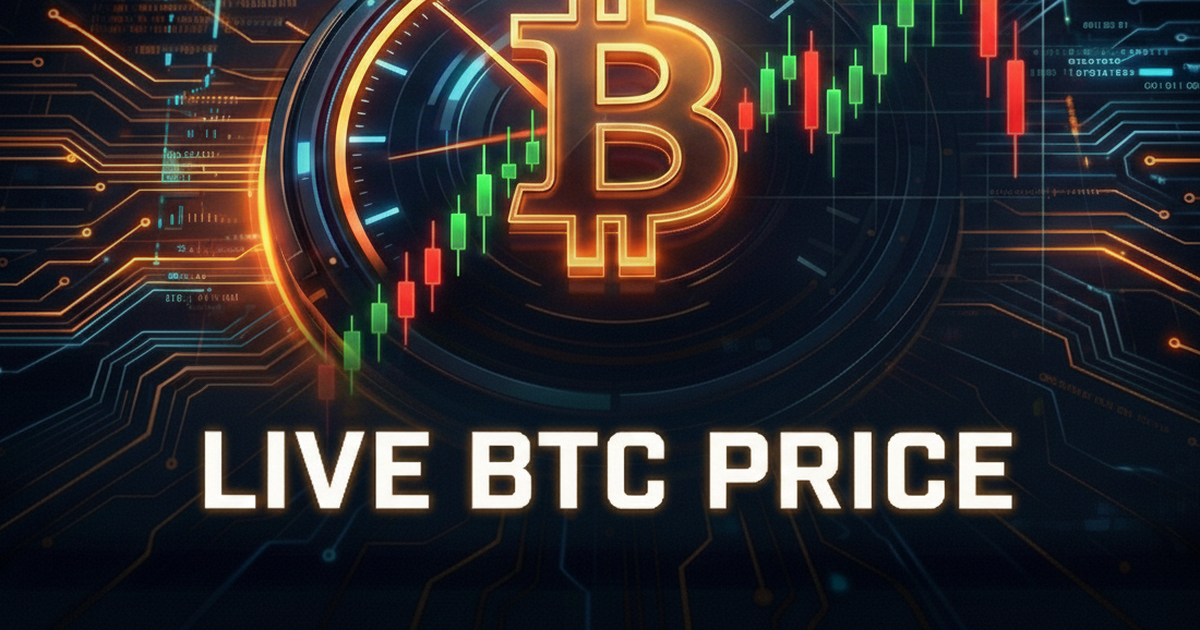
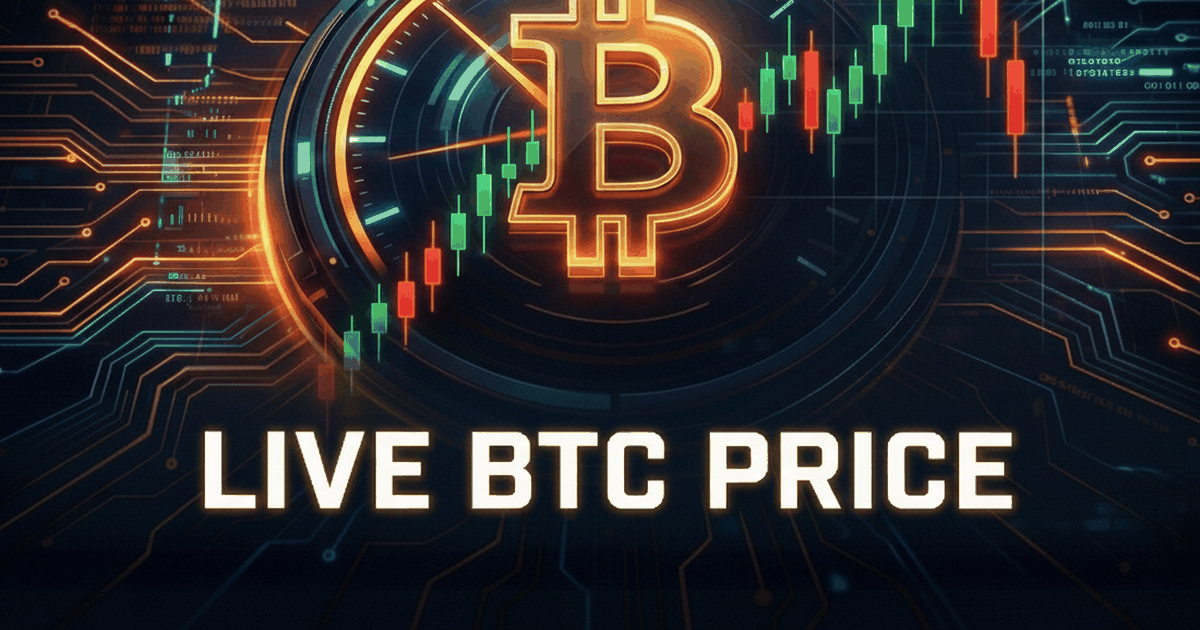
Site audit: main landmark, BTCPRIX breadcrumbs, lighter social image
Full pass over the live site. Crawled 19 pages, 30 link targets and 60
assets: no broken links, no missing assets, no console errors. 140
page-by-width combinations: zero horizontal overflow. Both interactive apps
verified working — Centre Circle Finder's search returns correct clubs, and
BTCPRIX's Binance feed ticks live.

Three real gaps found and fixed:

- No <main> landmark on any of the twelve generated pages, so screen readers
  had no way to skip to content. nav() now opens it and footer() closes it,
  which covers every page automatically. Footer still pins to the bottom on
  short pages and the content edges still align.
- BTCPRIX had no BreadcrumbList while every other page does; Google had no
  signal it sits under averyioApps. Added to its @graph.
- share-image2.png was 1013 KB. Palette-quantised to 411 KB with no visible
  change — it is a limited neon palette, so truecolour PNG was wasteful.

Known and deliberately left: the six frozen privacy pages link to
'index.html' rather than '/', creating a second URL for the homepage. The
canonical on /index.html already points at /, so Google consolidates it, and
those files must not be edited — Apple links them from live listings.

diff --git a/finance.html b/finance.html
@@ -71,6 +71,7 @@
       </div>
     </div>
   </nav>
+  <main>
   <div class="wrap crumb">
     <a href="/">Home</a>
     <span class="sep">/</span>
@@ -197,6 +198,7 @@
   <div class="wrap disclaimer">
     Nothing on this page is financial advice. averyio is not a financial adviser and none of this is a recommendation to buy or sell any investment. Markets carry risk and you can lose money — crypto especially. Past performance tells you nothing reliable about future returns. Only ever risk what you can afford to lose, and if you want advice, speak to someone qualified and regulated to give it.
   </div>
+  </main>
   <footer>
     <div class="wrap footer-inner">
       <div class="footer-cols">

diff --git a/btc-prix/index.html b/btc-prix/index.html
@@ -170,6 +170,15 @@
           "dateModified": "2026-08-09"
         },
         {
+          "@type": "BreadcrumbList",
+          "@id": "https://averyio.net/btc-prix/#breadcrumb",
+          "itemListElement": [
+            { "@type": "ListItem", "position": 1, "name": "Home", "item": "https://averyio.net/" },
+            { "@type": "ListItem", "position": 2, "name": "averyioApps", "item": "https://averyio.net/apps.html" },
+            { "@type": "ListItem", "position": 3, "name": "BTCPRIX", "item": "https://averyio.net/btc-prix/" }
+          ]
+        },
+        {
           "@type": "WebApplication",
           "@id": "https://averyio.net/btc-prix/#app",
           "name": "BTCPRIX",

diff --git a/apps.html b/apps.html
@@ -108,6 +108,7 @@
       </div>
     </div>
   </nav>
+  <main>
   <div class="wrap crumb">
     <a href="/">Home</a>
     <span class="sep">/</span>
@@ -261,6 +262,7 @@
       </div>
     </div>
   </section>
+  </main>
   <footer>
     <div class="wrap footer-inner">
       <div class="footer-cols">

diff --git a/apps/big-time-clock/index.html b/apps/big-time-clock/index.html
@@ -143,6 +143,7 @@
       </div>
     </div>
   </nav>
+  <main>
   <div class="wrap crumb">
     <a href="/">Home</a>
     <span class="sep">/</span>
@@ -313,6 +314,7 @@
       </div>
     </div>
   </section>
+  </main>
   <footer>
     <div class="wrap footer-inner">
       <div class="footer-cols">

diff --git a/apps/investfast/index.html b/apps/investfast/index.html
@@ -143,6 +143,7 @@
       </div>
     </div>
   </nav>
+  <main>
   <div class="wrap crumb">
     <a href="/">Home</a>
     <span class="sep">/</span>
@@ -313,6 +314,7 @@
       </div>
     </div>
   </section>
+  </main>
   <footer>
     <div class="wrap footer-inner">
       <div class="footer-cols">

diff --git a/apps/lume/index.html b/apps/lume/index.html
@@ -143,6 +143,7 @@
       </div>
     </div>
   </nav>
+  <main>
   <div class="wrap crumb">
     <a href="/">Home</a>
     <span class="sep">/</span>
@@ -313,6 +314,7 @@
       </div>
     </div>
   </section>
+  </main>
   <footer>
     <div class="wrap footer-inner">
       <div class="footer-cols">

diff --git a/apps/surge/index.html b/apps/surge/index.html
@@ -135,6 +135,7 @@
       </div>
     </div>
   </nav>
+  <main>
   <div class="wrap crumb">
     <a href="/">Home</a>
     <span class="sep">/</span>
@@ -301,6 +302,7 @@
       </div>
     </div>
   </section>
+  </main>
   <footer>
     <div class="wrap footer-inner">
       <div class="footer-cols">

diff --git a/apps/tap-dot-tap/index.html b/apps/tap-dot-tap/index.html
@@ -143,6 +143,7 @@
       </div>
     </div>
   </nav>
+  <main>
   <div class="wrap crumb">
     <a href="/">Home</a>
     <span class="sep">/</span>
@@ -313,6 +314,7 @@
       </div>
     </div>
   </section>
+  </main>
   <footer>
     <div class="wrap footer-inner">
       <div class="footer-cols">

diff --git a/contact.html b/contact.html
@@ -57,6 +57,7 @@
       </div>
     </div>
   </nav>
+  <main>
   <div class="wrap crumb">
     <a href="/">Home</a>
     <span class="sep">/</span>
@@ -114,6 +115,7 @@
       </div>
     </div>
   </section>
+  </main>
   <footer>
     <div class="wrap footer-inner">
       <div class="footer-cols">

diff --git a/privacy.html b/privacy.html
@@ -57,6 +57,7 @@
       </div>
     </div>
   </nav>
+  <main>
   <div class="wrap crumb">
     <a href="/">Home</a>
     <span class="sep">/</span>
@@ -119,6 +120,7 @@
       </div>
     </div>
   </section>
+  </main>
   <footer>
     <div class="wrap footer-inner">
       <div class="footer-cols">

diff --git a/index.html b/index.html
@@ -150,6 +150,7 @@
       </div>
     </div>
   </nav>
+  <main>
 
   <header class="hero">
     <div class="wrap">
@@ -296,6 +297,7 @@
       </div>
     </div>
   </section>
+  </main>
   <footer>
     <div class="wrap footer-inner">
       <div class="footer-cols">

diff --git a/404.html b/404.html
@@ -38,6 +38,7 @@
       </div>
     </div>
   </nav>
+  <main>
 
   <header class="hero">
     <div class="wrap">
@@ -49,6 +50,7 @@
       </div>
     </div>
   </header>
+  </main>
   <footer>
     <div class="wrap footer-inner">
       <div class="footer-cols">
